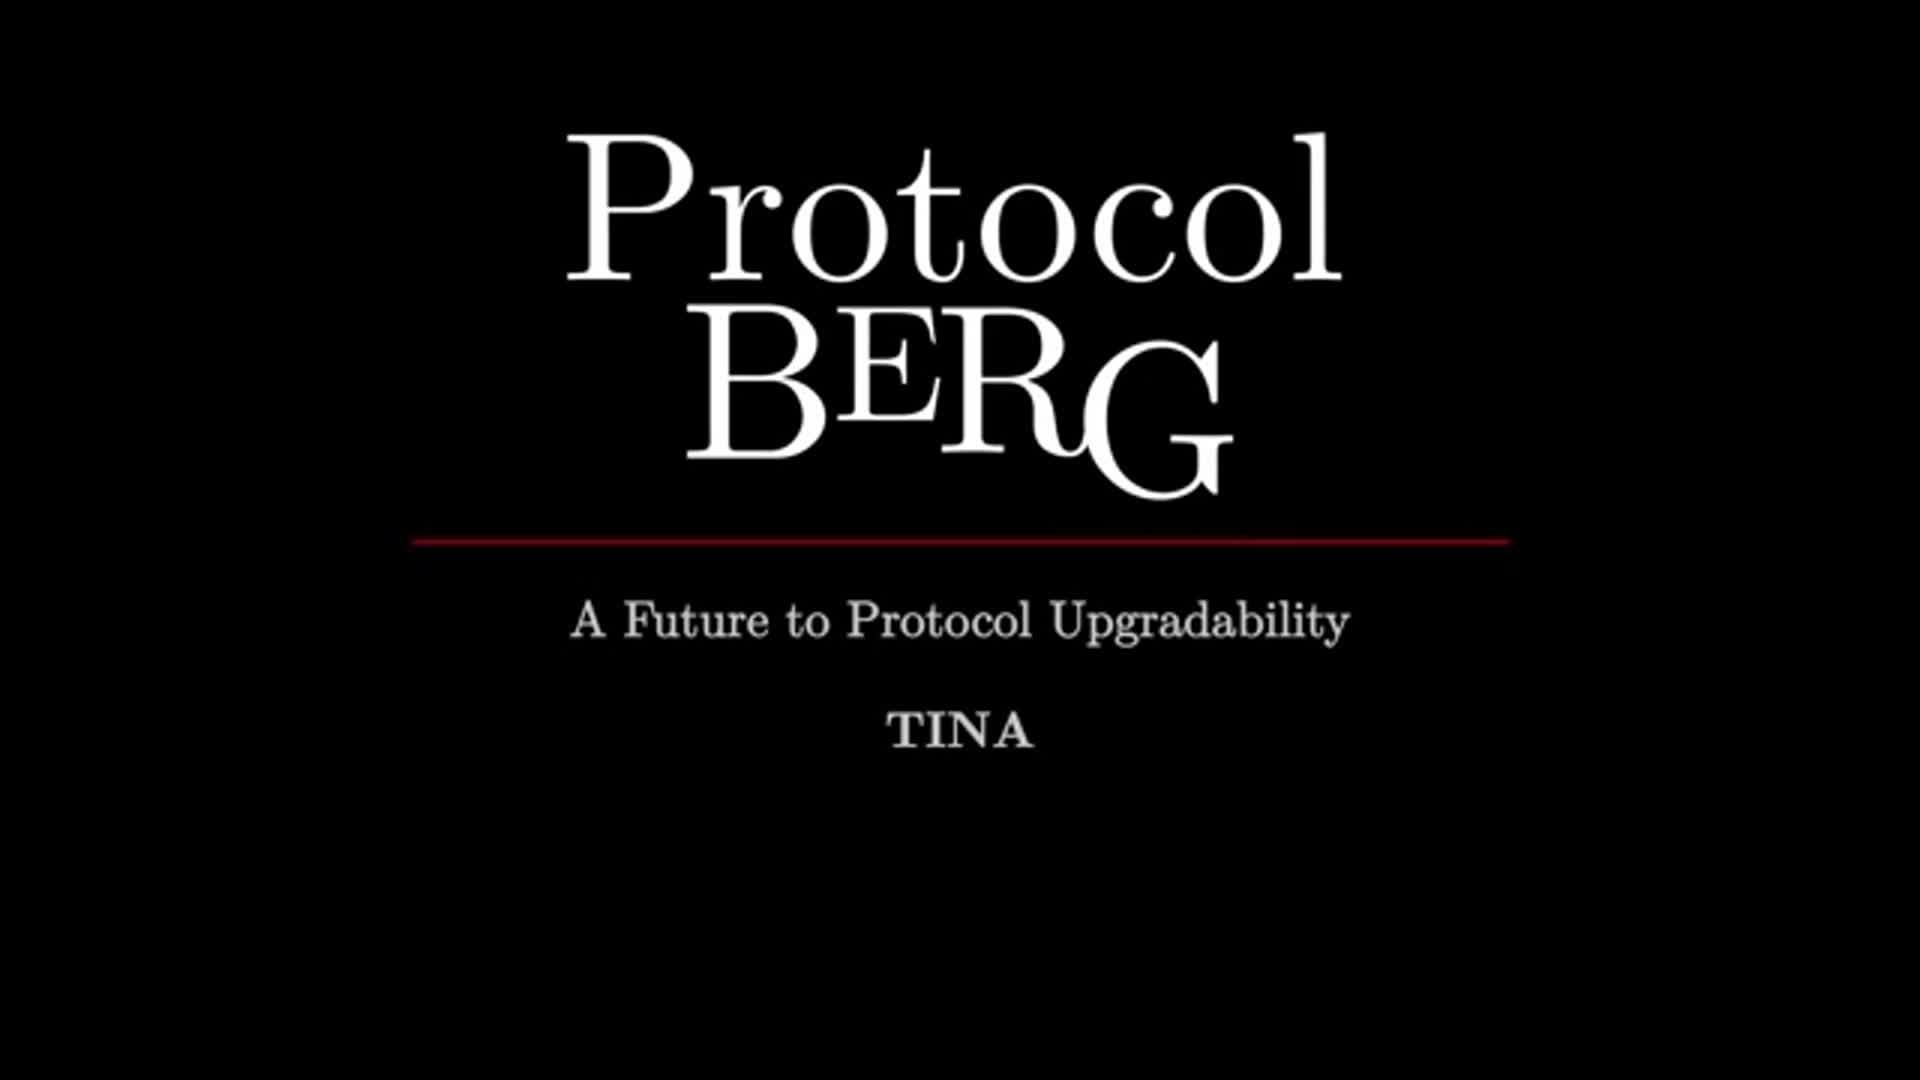
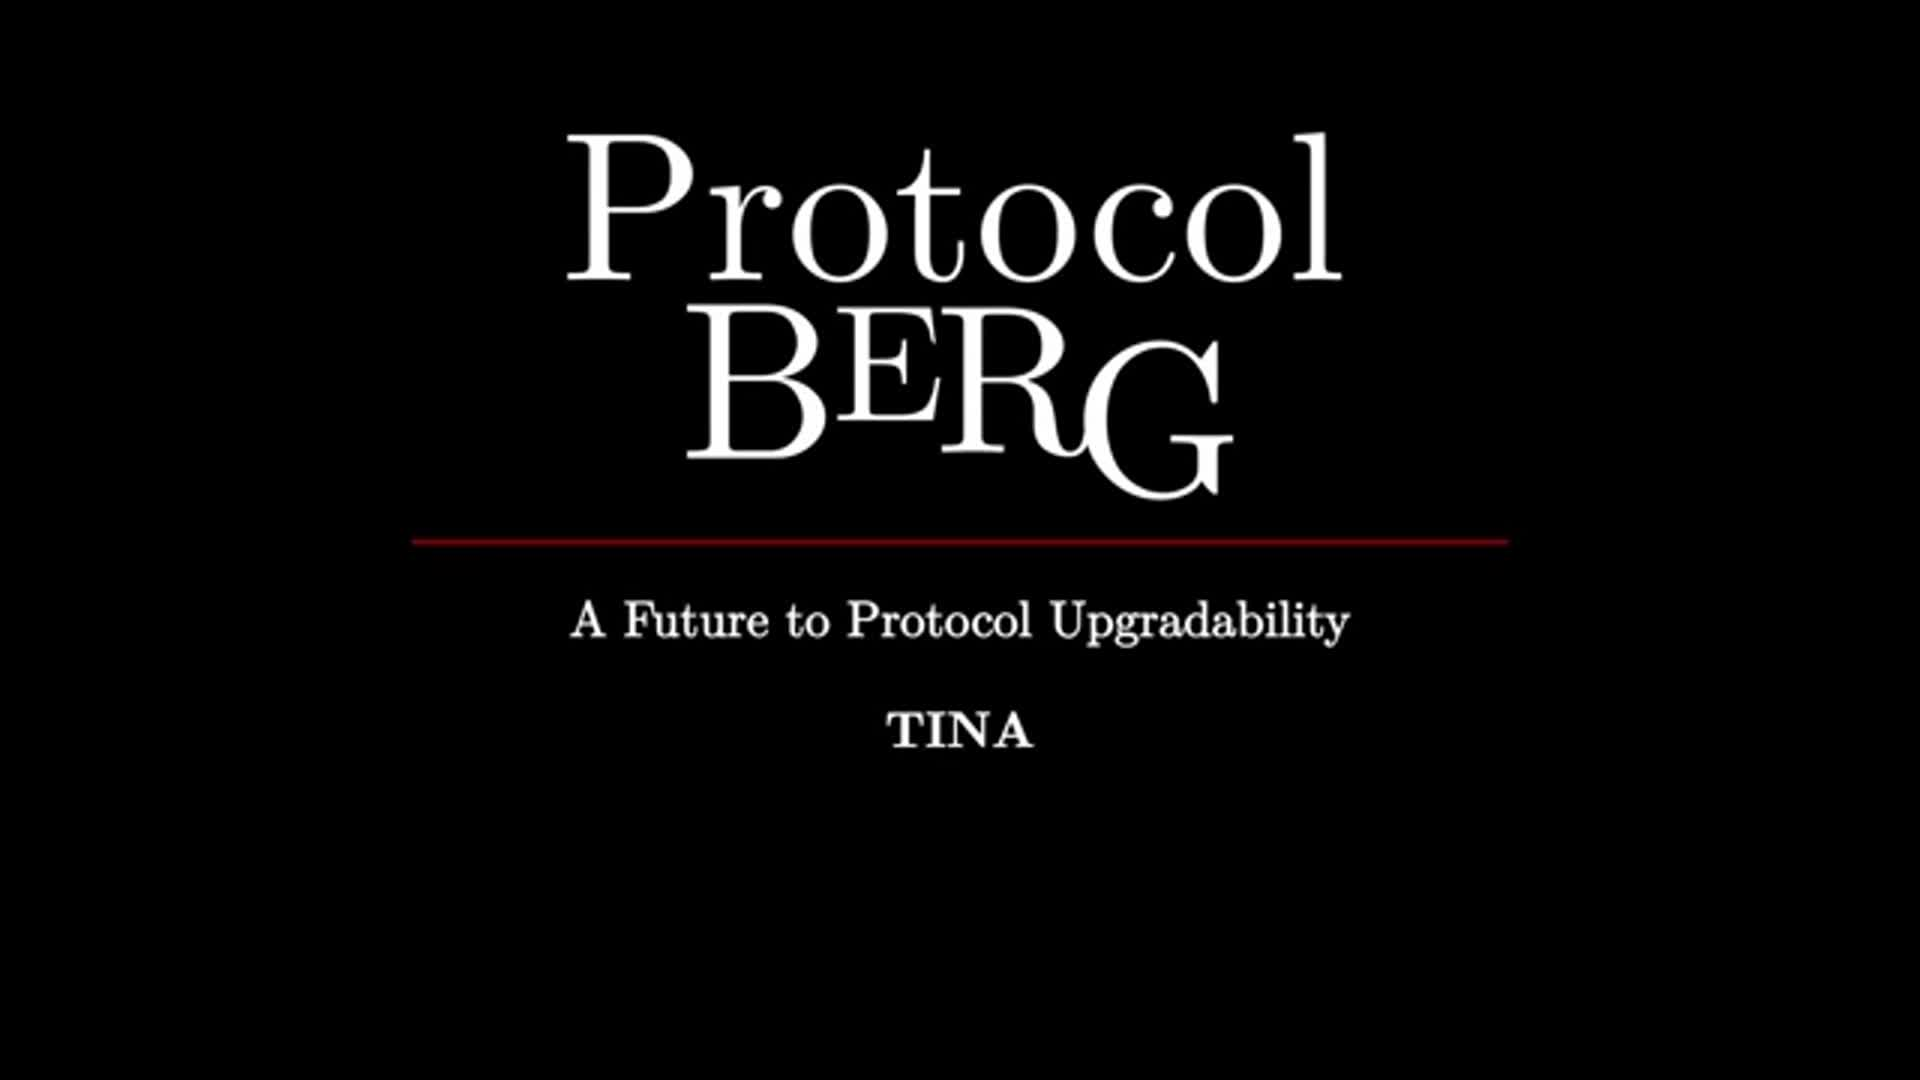
Protocol Berg - Thumbnail is clear now

Changed region(s): [[0.2812, 0.55, 0.6875, 0.6111], [0.4688, 0.6417, 0.5312, 0.7028]]

diff --git a/server/utils/video.ts b/server/utils/video.ts
@@ -11,7 +11,7 @@ export async function extractFirstFrame(hlsUrl: string, filePath: string) {
 
   ffmpeg(hlsUrl)
     .screenshots({
-      timemarks: ['00:00:07.000'],
+      timemarks: ['00:00:07.500'],
       filename: filePath,
       folder: '.',
       size: '1920x1080',
